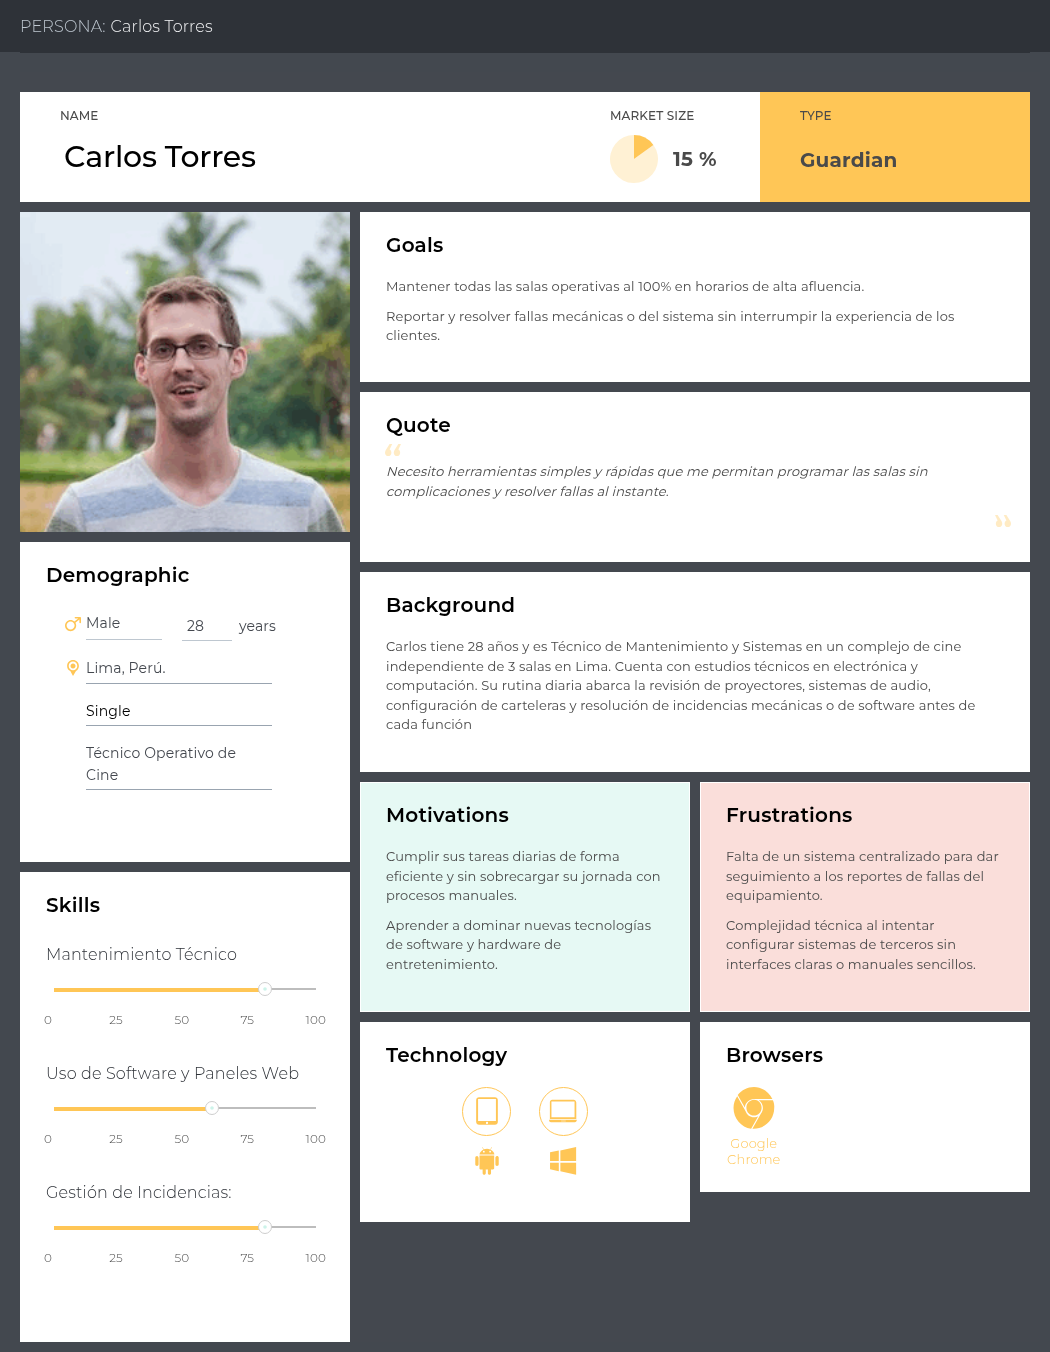
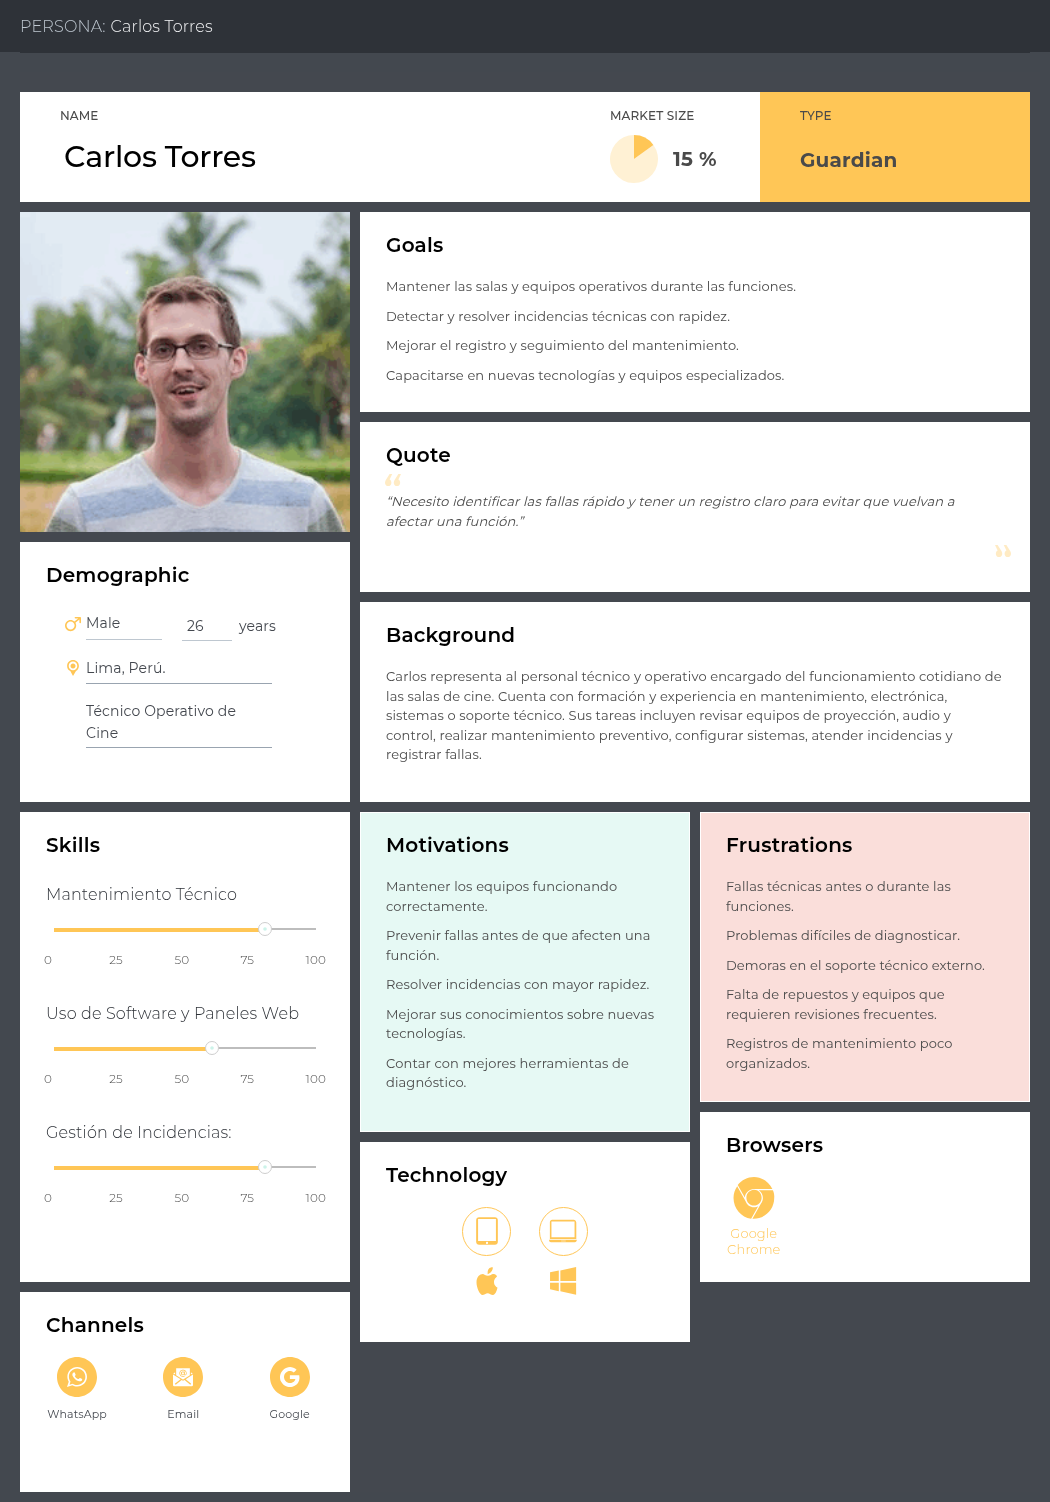
docs(needfinding): update user personas

diff --git a/README.md b/README.md
@@ -389,19 +389,17 @@ Para el análisis de competencia se identificaron tres competidores indirectos c
 
 > _Bloqueado — depende de 2.2.2._
 
-### 2.3 Needfinding
+## 2.3. Needfinding
 
-Al recopilar la información de los segmentos objetivo a través de las entrevistas, se procedió a sintetizar y analizar los hallazgos mediante la construcción de User Personas, User Task Matrix, User Journey Mapping y Empathy Mapping.
+A partir de la información recopilada de los segmentos objetivo y de los resultados obtenidos en las entrevistas, se realizó el proceso de Needfinding mediante la elaboración de los User Personas, User Task Matrix, User Journey Maps y Empathy Maps. Estos artefactos permiten representar las características, actividades, objetivos, necesidades y dificultades identificadas en cada segmento y sirven como base para la definición de los requisitos de Kinemo.
 
-#### 2.3.1 User Personas
+### 2.3.1. User Personas
 
-**User Persona 1: Carlos Torres**  
-La imagen ilustra el perfil de Carlos Torres, enfocado en el mantenimiento técnico y la operación de las salas. Destaca sus metas de mantener el 100% de operatividad en horas de alta afluencia y sus frustraciones ligadas a la ausencia de un sistema centralizado para dar seguimiento a fallas mecánicas e interfaces complejas.
+**User persona 1 (Personal operativo/técnico de las salas de cine ):** La ficha de Carlos Torres representa al personal encargado de las actividades técnicas y operativas de las salas de cine. El arquetipo refleja un perfil orientado a la resolución de problemas, mantenimiento preventivo y atención de incidencias. Sus principales objetivos son mantener los equipos operativos, detectar fallas con rapidez y mejorar el seguimiento del mantenimiento. Entre sus principales dificultades se encuentran las fallas durante las funciones, la demora del soporte técnico, la falta de repuestos y la necesidad de contar con mejores herramientas de diagnóstico y registro.
 
 <img src="assets/img/Carlos%20Torres.png" alt="Carlos Torres">
 
-**User Persona 2: Pepe Castillo**  
-La imagen sintetiza el perfil del tomador de decisiones comerciales. Refleja sus objetivos de diferenciar la oferta de sus cines e incrementar la venta de entradas premium, equilibrado con su temor a realizar inversiones en tecnología propietaria costosa sin soporte local asegurado.
+**User persona 2 (Gerentes/Propietarios de cadenas de cine pequeñas y medianas):** La ficha de Pepe Castillo representa al responsable de la toma de decisiones dentro de una cadena de cine pequeña o mediana. El arquetipo refleja un perfil organizado y analítico, orientado a evaluar inversiones, comparar proveedores y modernizar las salas sin asumir riesgos económicos excesivos. Entre sus principales objetivos se encuentran mejorar la experiencia del cliente, atraer mayor público y diferenciar la oferta de sus salas. Sus principales frustraciones están relacionadas con los altos costos de implementación, el mantenimiento, la disponibilidad de soporte técnico y la incertidumbre sobre el retorno de inversión.
 
 <img src="assets/img/Pepe%20Castillo.png" alt="Pepe Castillo">
 
